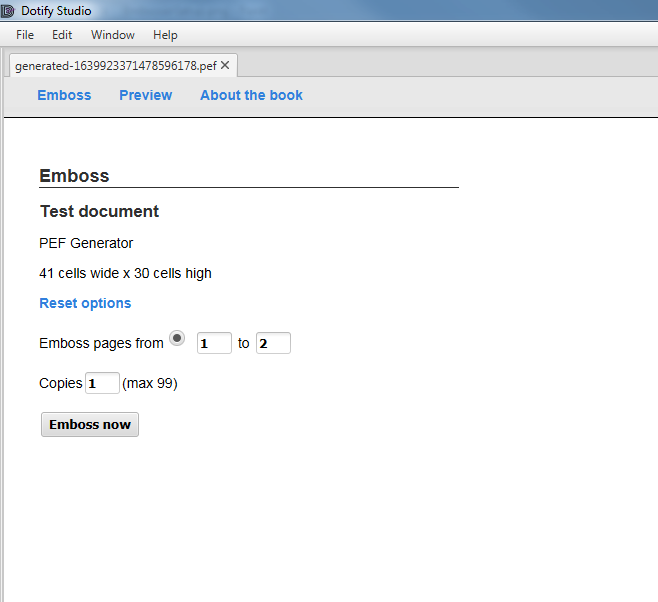
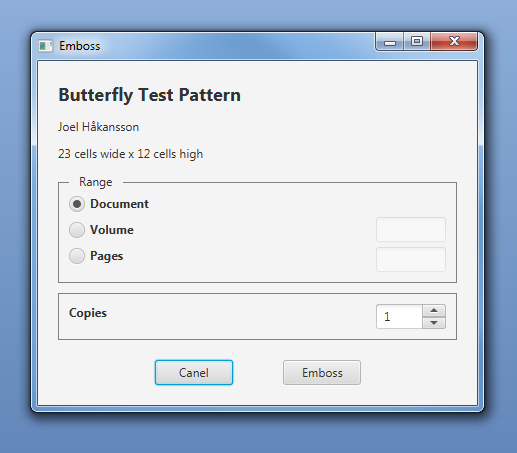
Adds release notes and improves documentation

diff --git a/docs/UserGuide.md b/docs/UserGuide.md
@@ -12,7 +12,7 @@ The `General` tab contains a couple of basic settings, such as the target locale
 ### Emboss ###
 The `Emboss` tab contains settings related to embossing. 
  1. First select your **Device**. 
- 1. Next you need to select the **Embosser** make and model. It might be apparent to you given the device name, but the application cannot interpret this information. It is very important that you select the correct embosser make and model, otherwise the application will not be able to correctly emboss your documents.
+ 1. Next you need to select the **Embosser** make and model. Given the device name above, it might seem apparent what the choice should be, but the application cannot interpret this information. It is very important that you select the correct embosser make and model, otherwise the application will not be able to emboss your documents correctly.
 
 Additional options will be presented when embosser has been selected. Once all required options has been set, you will be able to emboss documents.
 
@@ -23,12 +23,38 @@ _Screenshot of Setup view._
 ### Manage paper ###
 The `Manage paper` tab is used to define and manage custom paper formats.
 
+## Open a file ##
+To open a file, select the **Open...** menu option in the **File** menu. 
+
+### Find files ###
+If you keep your PEF-files below a common folder, they can be found using the metadata supplied with the PEF-files.
+For example by entering the title of a document.
+
+To do this, open the `search` tab in the tools area, select the **Show search** menu option in the **Window** menu. By default
+the "user home folder" is scanned, but it can be changed by clicking the `Select folder` button.
+
+## Import source documents ##
+A source document is a document that isn't braille yet, but can be. To import source documents, use the menu item `Import/Source document...`. 
+
+Note that the target locale must be `sv-SE` for this to work.
+
+## Import braille text files ##
+A braille text file is a text file containing line breaks and form feeds to indicate where lines and pages end. In addition,
+a small set of characters is used, essentially corresponding one-to-one with a braille cell. To import braille text
+files, use the menu item `Import/Braille text files...`.
+
+If you have a text file that is plain text, but _not_ braille, the above option should be used instead.
+
+## Exporting ##
+Exporting a file as text can be done by using the menu item `Export`. This will export the file as text, using the same
+translation that is used when rendering the preview.
+
 ## Embossing ##
-Click the **Emboss** link in the preview window to emboss. Review the document information to verify that you are embossing the correct document.
+The menu item `Emboss` opens an emboss dialog. Review the document information to verify that you are embossing the correct document.
 
-To emboss a range of pages, a single volume or multiple copies, click **Show options**. Note that if this view is left for any reason, changes to the additional settings will be lost.
+To emboss a range of pages, a single volume or multiple copies, set the corresponding option.
 
-To emboss, click **Emboss now**.
+To emboss, click **Emboss**.
 
 ![Emboss view](images/EmbossView.png)
 
@@ -36,13 +62,3 @@ _Screenshot of Emboss view._
 
 To see more information about the book, select **About the book** in the preview window.
 
-## Open files ##
-To open files, select the **Open...** menu option in the **File** menu. 
-
-
-## Search for files ##
-If you keep all your PEF-files below a common folder, they can be found using the metadata supplied with the PEF-files.
-For example by entering the title of a document.
-
-To do this, open the `search` tab in the tools area, select the **Show search** menu option in the **Window** menu. By default
-the "user home folder" is scanned, but it can be changed by clicking the `Select folder` button.

diff --git a/docs/README.md b/docs/README.md
@@ -18,7 +18,7 @@ used "braille" text formats.
   * Emboss a PEF-file
   * Validate a PEF-file
   * Search meta data in collection of PEF-files
-  * ~~Convert from text to a PEF-file~~ [not implemented]
+  * Convert from text to a PEF-file
   * Convert from a PEF-file to text
   * ~~Split a PEF-file into one file per volume~~ [not implemented]
   * ~~Merge several PEF-files into one~~ [not implemented]
@@ -29,7 +29,7 @@ Dotify Studio supports a range of embossers, including popular [Index](http://ww
 For details, see the complete list of supported embossers by accessing the embosser drop down in `Preferences/Emboss`.
   
 ### Translator Limitations ###
-Unfortunately, only Swedish _braille_ is supported when using the following menu item `Import/Document...`. This is primarily due to
+Unfortunately, only Swedish _braille_ is supported when using the following menu item `Import/Source document...`. This is primarily due to
 missing braille translations.
 
 ## Installation ##

diff --git a/docs/Changes.md b/docs/Changes.md
@@ -1,8 +1,23 @@
 [[Table of Contents|Toc]]
 
-# 0.2.0 (unreleased) #
+# 0.2.0 #
 
 ## New in this version ##
+New in this version:
+- Adds embossing from the application menu and removes it in the preview window
+- Remembers settings in the emboss dialog (fixes #10)
+- Adds support for importing braille text
+- Improves synchronization of book validity and metadata (if the file changes, this information is updated)
+- Improves validation by:
+  - adding visual markers to rows with validation problems
+  - adding a validation notice to the preview and validation messages to "about the book"
+- Adds scroll lock and clear console buttons to the console view
+- Makes it possible to close dialogs with ESC
+- Improves efficiency of preview rendering (fixes #12)
+- Restores possibility to select preview font
+- Adds an option to disable the toc preamble
+- Improves documentation
+- Distributes documentation in HTML-format
 
 # 0.1.0 #
 
